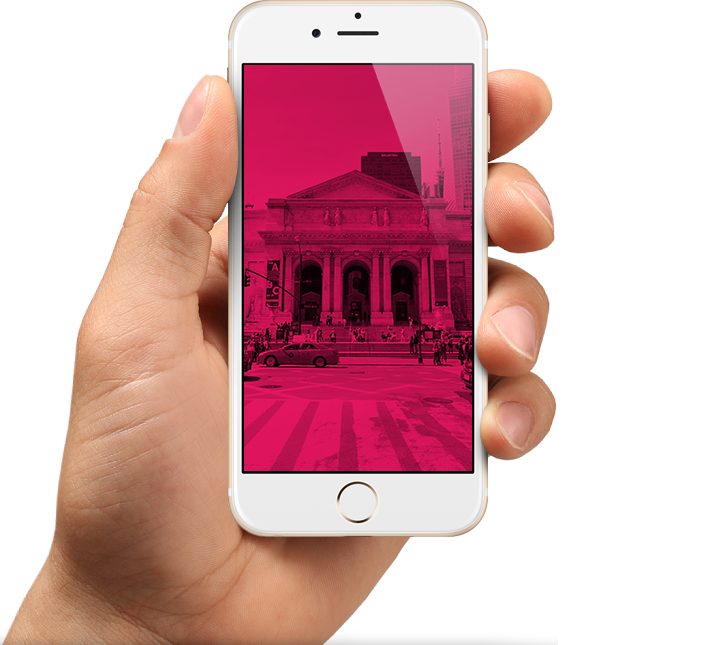
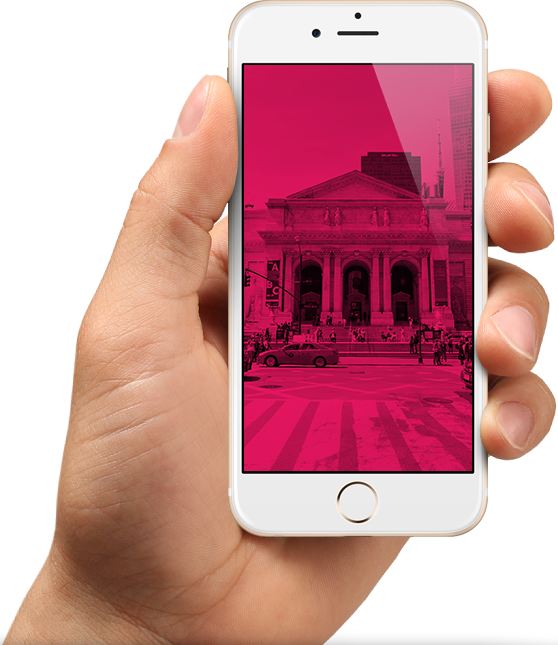
Адаптивная шапка на флексах

diff --git a/less/blocks/main-header.less b/less/blocks/main-header.less
@@ -2,7 +2,7 @@
   position: relative;
   height: 460px;
   background-image:  
-    url(../../img/bg-iphone.png),
+    url(../../img/bg-iphone-mobile.png),
     url(../../img/bg-header-mobile.png);
   background-position: 
     50% 175px,
@@ -12,32 +12,34 @@
   padding: 0;
   padding-top: 4px;
   color: #fff;
+
+  display: flex;
+  flex-direction: column;
 }
 .main-header__top {
   background-color: rgba(0, 0, 0, 0.3);
-  margin-bottom: 390px;
   // border-bottom: 1px solid #000;
 }
 .main-header__wrapper {
   .clearfix();
   .container-fluid();
-
   height: 30px;
   padding: 20px 0;
+
+  display: flex;
+  justify-content: space-around;
+  align-items: center;
 }
 .main-header__logo {
-  background: url(../../img/logo-tablet.png) no-repeat;
-  background-position: -70px -15px;
-  float: left;
+  background: url(../../img/logo-mobile.png) no-repeat;
+  // background-position: -70px -15px;
   width: 160px;
   height: 30px;
-  font-size: 26px;
-  text-transform: uppercase;
+  flex-grow: 1;
 }
 .main-header__open-nav {
-  float: right;
   width: 50px;
-  height: 30px;
+  height: 24px;
   background: url(../../img/menu-burger.png) no-repeat;
   border: none;
   outline: none;
@@ -53,6 +55,14 @@
 .main-header__nav--open {
   visibility: visible;
 }
+.main-header__title {
+  display: block;
+  font-size: 24px;
+  font-weight: light;
+  text-align: center;
+  padding: 20px 40px;
+  margin-bottom: 284px;
+}
 
 // TABLET STYLES 
 
@@ -64,22 +74,29 @@
     url(../../img/bg-iphone.png),
     url(../../img/bg-header-tablet.png);
   background-position: 
-    50% 100%,
+    80% 100%,
     center top;
   background-repeat: no-repeat, no-repeat;
   background-size: auto 546px, cover;
   }
   .main-header__wrapper {
     .container-fluid();
-    height: 50px;
-    padding-bottom: 40px;
+    height: 90px;
   }
   .main-header__logo {
-    background-position: 0 0;
-    height: 40px;
+    background-image: url(../../img/logo-tablet.png);
+    height: 50px;
   }
   .main-header__open-nav {
-    margin-top: 10px;
+
+  }
+  .main-header__title {
+    width: 220px;
+    margin-left: 8%;
+    padding: 0 40px;
+    margin-bottom: 30px;
+    font-size: 40px;
+    margin-top: 90px;
   }
 }
 
@@ -88,10 +105,14 @@
 @media @desktop {
   .main-header {
     height: 860px;
-    background: 
-      url(../../img/bg-iphone.png) no-repeat 100% 100%,
-      url(../../img/bg-header-desktop.png) no-repeat center;
-    background-size: 580px, cover;
+    background-image:  
+    url(../../img/bg-iphone.png),
+    url(../../img/bg-header-desktop.png);
+  background-position: 
+    460px 100%,
+    center top;
+  background-repeat: no-repeat, no-repeat;
+  background-size: auto 645px, cover;
   }
   .main-header__wrapper {
     height: 80px;
@@ -108,5 +129,11 @@
     float: right;
     width: 700px;
     margin-top: 20px;
+  }
+  .main-header__title {
+    width: 260px;
+    font-size: 50px;
+    margin-left: 200px;
+    padding: 0 20px;
   }
 }

diff --git a/index.html b/index.html
@@ -12,7 +12,7 @@
       <div class="main-header__top">
         <div class="main-header__wrapper">
           <div class="main-header__logo"></div>
-          <!-- <button class="main-header__open-nav"></button> сделать псевдоэлементом-->
+           <button class="main-header__open-nav"></button> 
           <nav class="main-nav  main-header__nav">
             <ul class="main-nav__list">
               <li class="main-nav__item"><a href="#">Главная</a></li>
@@ -23,9 +23,9 @@
           </nav>
         </div>
       </div>
+      <div class="main-header__title">Взгляните на жизнь<br> иначе!</div>
       <div class="download">
         <div class="download__wrapper">
-          <div class="download__title">Взгляните на жизнь иначе!</div>
           <a href="#" class="download__btn">Скачать приложение</a>
           <div class="download__platforms">
             <a href="#"><img src="img/apple-logo.png" alt=""></a>

diff --git a/less/blocks/download.less b/less/blocks/download.less
@@ -7,9 +7,6 @@
 .download__wrapper {
   .container-fluid();
 }
-.download__title {
-  display: none;
-}
 .download__btn {
   .btn(100%, 30px);
   margin-bottom: 25px;
@@ -30,27 +27,32 @@
 
 @media @tablet {
   .download {
-    .container(620px);
     background-color: transparent;
-    position: relative;
+    padding-top: 0;
   }
   .download__wrapper {
     width: 300px;
-    position: absolute;
-    top: -150px;
-      }
-  .download__title {
-    display: block;
-    font-size: 40px;
-    font-weight: light;
-    padding-left: 40px;
-    padding-right: 40px;
-    margin-bottom: 35px;
-      }
+    margin-left: 8%;
+  }
   .download__btn {
-
-      }
+      margin-bottom: 40px;
+  }
+  .download__platforms {
+    margin-bottom: 20px;
+  }
   .download__description {
     font-size: 18px;
-      }
+  }
+}
+
+@media @desktop {
+  .download__wrapper {
+    margin-left: 200px;
+  }
+  .download__btn {
+    margin-bottom: 70px;
+  }
+  .download__platforms {
+    margin-bottom: 40px;
+  }
 }

diff --git a/less/blocks/main-nav.less b/less/blocks/main-nav.less
@@ -31,7 +31,7 @@
 
 @media @tablet {
   .main-nav {
-    top: 110px;
+    top: 130px;
   }
 }
 
